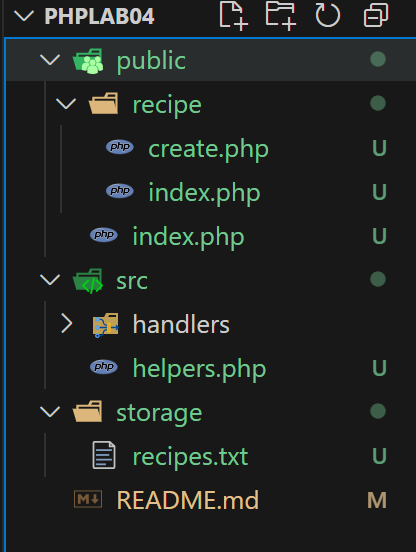
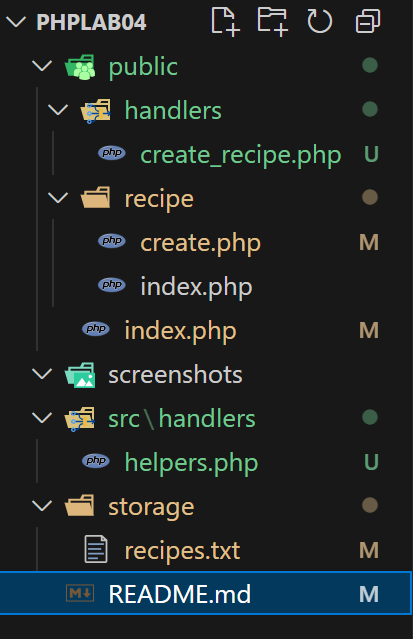
updating

diff --git a/public/recipe/create.php b/public/recipe/create.php
@@ -1,0 +1,74 @@
+<?php
+session_start();
+$errors = $_SESSION['errors'] ?? [];
+$formData = $_SESSION['form_data'] ?? [];
+session_unset();
+?>
+<!DOCTYPE html>
+<html lang="ru">
+<head>
+    <meta charset="UTF-8">
+    <title>Добавить рецепт</title>
+</head>
+<body>
+    <h1>Добавить новый рецепт</h1>
+    <form action="/handlers/create_recipe.php" method="POST" novalidate>
+
+        <label>Название рецепта:</label><br>
+        <input type="text" name="title" value="<?= htmlspecialchars($formData['title'] ?? '') ?>">
+        <?php if (isset($errors['title'])): ?>
+            <p style="color:red"><?= $errors['title'] ?></p>
+        <?php endif; ?>
+        <br><br>
+
+        <label>Категория:</label><br>
+        <select name="category">
+            <option value="">--Выберите--</option>
+            <?php
+            $categories = ['Завтрак', 'Обед', 'Ужин', 'Десерт', 'Напитки'];
+            foreach ($categories as $cat):
+                $selected = ($formData['category'] ?? '') === $cat ? 'selected' : '';
+                echo "<option value=\"$cat\" $selected>$cat</option>";
+            endforeach;
+            ?>
+        </select>
+        <?php if (isset($errors['category'])): ?>
+            <p style="color:red"><?= $errors['category'] ?></p>
+        <?php endif; ?>
+        <br><br>
+
+        <label>Ингредиенты:</label><br>
+        <textarea name="ingredients"><?= htmlspecialchars($formData['ingredients'] ?? '') ?></textarea>
+        <?php if (isset($errors['ingredients'])): ?>
+            <p style="color:red"><?= $errors['ingredients'] ?></p>
+        <?php endif; ?>
+        <br><br>
+
+        <label>Описание:</label><br>
+        <textarea name="description"><?= htmlspecialchars($formData['description'] ?? '') ?></textarea>
+        <br><br>
+
+        <label>Тэги:</label><br>
+        <select name="tags[]" multiple>
+            <?php
+            $tagsList = ['Вегетарианское', 'Без глютена', 'Быстро', 'Острое', 'Праздничное'];
+            $selectedTags = $formData['tags'] ?? [];
+            foreach ($tagsList as $tag):
+                $selected = in_array($tag, $selectedTags) ? 'selected' : '';
+                echo "<option value=\"$tag\" $selected>$tag</option>";
+            endforeach;
+            ?>
+        </select>
+        <br><br>
+
+        <label>Шаги приготовления:</label><br>
+        <textarea name="steps"><?= htmlspecialchars($formData['steps'] ?? '') ?></textarea>
+        <?php if (isset($errors['steps'])): ?>
+            <p style="color:red"><?= $errors['steps'] ?></p>
+        <?php endif; ?>
+        <br><br>
+
+        <button type="submit">Сохранить рецепт</button>
+    </form>
+</body>
+</html>

diff --git a/public/handlers/create_recipe.php b/public/handlers/create_recipe.php
@@ -1,0 +1,47 @@
+<?php
+require_once __DIR__ . '/../../src/handlers/helpers.php';
+
+
+ini_set('display_errors', 1);
+error_reporting(E_ALL);
+
+if ($_SERVER['REQUEST_METHOD'] === 'POST') {
+    session_start();
+
+    $errors = [];
+
+    $title = trim($_POST['title'] ?? '');
+    $category = trim($_POST['category'] ?? '');
+    $ingredients = trim($_POST['ingredients'] ?? '');
+    $description = trim($_POST['description'] ?? '');
+    $tags = $_POST['tags'] ?? [];
+    $steps = trim($_POST['steps'] ?? '');
+
+    // Валидация
+    if ($title === '') $errors['title'] = 'Обязательно ввести название';
+    if ($category === '') $errors['category'] = 'Категория не выбрана';
+    if ($ingredients === '') $errors['ingredients'] = 'Введите ингредиенты';
+    if ($steps === '') $errors['steps'] = 'Введите шаги приготовления';
+
+    if (!empty($errors)) {
+        $_SESSION['errors'] = $errors;
+        $_SESSION['form_data'] = compact('title', 'category', 'ingredients', 'description', 'tags', 'steps');
+        header('Location: /recipe/create.php');
+        exit;
+    }
+
+    $recipe = [
+        'title' => $title,
+        'category' => $category,
+        'ingredients' => $ingredients,
+        'description' => $description,
+        'tags' => $tags,
+        'steps' => $steps,
+        'created_at' => date('Y-m-d H:i:s')
+    ];
+
+    saveRecipe($recipe);
+
+    header('Location: /index.php');
+    exit;
+}

diff --git a/public/index.php b/public/index.php
@@ -1,0 +1,11 @@
+<!DOCTYPE html>
+<html lang="ru">
+<head>
+    <meta charset="UTF-8">
+    <title>Главная</title>
+</head>
+<body>
+    <h1>Рецепт успешно сохранён!</h1>
+    <a href="/recipe/create.php">Добавить ещё</a>
+</body>
+</html>

diff --git a/src/handlers/helpers.php b/src/handlers/helpers.php
@@ -1,0 +1,7 @@
+<?php
+
+function saveRecipe(array $recipe): void {
+    $filePath = __DIR__ . '/../../storage/recipes.txt';
+    $json = json_encode($recipe, JSON_UNESCAPED_UNICODE);
+    file_put_contents($filePath, $json . PHP_EOL, FILE_APPEND);
+}

diff --git a/README.md b/README.md
@@ -7,10 +7,14 @@
 ## Цель работы
 Освоить основные принципы работы с HTML-формами в PHP, включая отправку данных на сервер и их обработку, включая валидацию данных.
 
+## Инструкция к запуску проекта
+
+todo
+
 
 ## Задание 1. Создание проекта.
 
-Создаю и организовываю файловую структуру проекта, взятую из примера:
+Создаю и организовываю файловую структуру проекта, ориентируясь на пример:
 
 ```
 phplab04/
@@ -27,6 +31,98 @@ phplab04/
 └── README.md                       # Описание проекта
 ```
 
-Полученная структура:
+Созданная мной структура:
 
 ![image](screenshots/Screenshot_1.png)
+
+## Задание 2. Создание формы добавления рецепта
+
+Создаю форму ссылаясь на указанные условия.
+
+1. Форма содержит следующие поля:
+- Название рецепта (<input type="text">);
+- Категория рецепта (<select>);
+- Ингредиенты (<textarea>);
+- Описание рецепта (<textarea>);
+- Тэги (выпадающий список с возможностью выбора нескольких значений, <select multiple>).
+- Поле для шагов приготовления рецепта. Реализовано через <textarea>, где каждый шаг начинается с новой строки.
+- Кнопка "Отправить" для отправки формы.
+
+`create.php`:
+
+```php
+<?php
+session_start();
+$errors = $_SESSION['errors'] ?? [];
+$formData = $_SESSION['form_data'] ?? [];
+session_unset();
+?>
+<!DOCTYPE html>
+<html lang="ru">
+<head>
+    <meta charset="UTF-8">
+    <title>Добавить рецепт</title>
+</head>
+<body>
+    <h1>Добавить новый рецепт</h1>
+    <form action="/handlers/create_recipe.php" method="POST" novalidate>
+
+        <label>Название рецепта:</label><br>
+        <input type="text" name="title" value="<?= htmlspecialchars($formData['title'] ?? '') ?>">
+        <?php if (isset($errors['title'])): ?>
+            <p style="color:red"><?= $errors['title'] ?></p>
+        <?php endif; ?>
+        <br><br>
+
+        <label>Категория:</label><br>
+        <select name="category">
+            <option value="">--Выберите--</option>
+            <?php
+            $categories = ['Завтрак', 'Обед', 'Ужин', 'Десерт', 'Напитки'];
+            foreach ($categories as $cat):
+                $selected = ($formData['category'] ?? '') === $cat ? 'selected' : '';
+                echo "<option value=\"$cat\" $selected>$cat</option>";
+            endforeach;
+            ?>
+        </select>
+        <?php if (isset($errors['category'])): ?>
+            <p style="color:red"><?= $errors['category'] ?></p>
+        <?php endif; ?>
+        <br><br>
+
+        <label>Ингредиенты:</label><br>
+        <textarea name="ingredients"><?= htmlspecialchars($formData['ingredients'] ?? '') ?></textarea>
+        <?php if (isset($errors['ingredients'])): ?>
+            <p style="color:red"><?= $errors['ingredients'] ?></p>
+        <?php endif; ?>
+        <br><br>
+
+        <label>Описание:</label><br>
+        <textarea name="description"><?= htmlspecialchars($formData['description'] ?? '') ?></textarea>
+        <br><br>
+
+        <label>Тэги:</label><br>
+        <select name="tags[]" multiple>
+            <?php
+            $tagsList = ['Вегетарианское', 'Без глютена', 'Быстро', 'Острое', 'Праздничное'];
+            $selectedTags = $formData['tags'] ?? [];
+            foreach ($tagsList as $tag):
+                $selected = in_array($tag, $selectedTags) ? 'selected' : '';
+                echo "<option value=\"$tag\" $selected>$tag</option>";
+            endforeach;
+            ?>
+        </select>
+        <br><br>
+
+        <label>Шаги приготовления:</label><br>
+        <textarea name="steps"><?= htmlspecialchars($formData['steps'] ?? '') ?></textarea>
+        <?php if (isset($errors['steps'])): ?>
+            <p style="color:red"><?= $errors['steps'] ?></p>
+        <?php endif; ?>
+        <br><br>
+
+        <button type="submit">Сохранить рецепт</button>
+    </form>
+</body>
+</html>
+```
